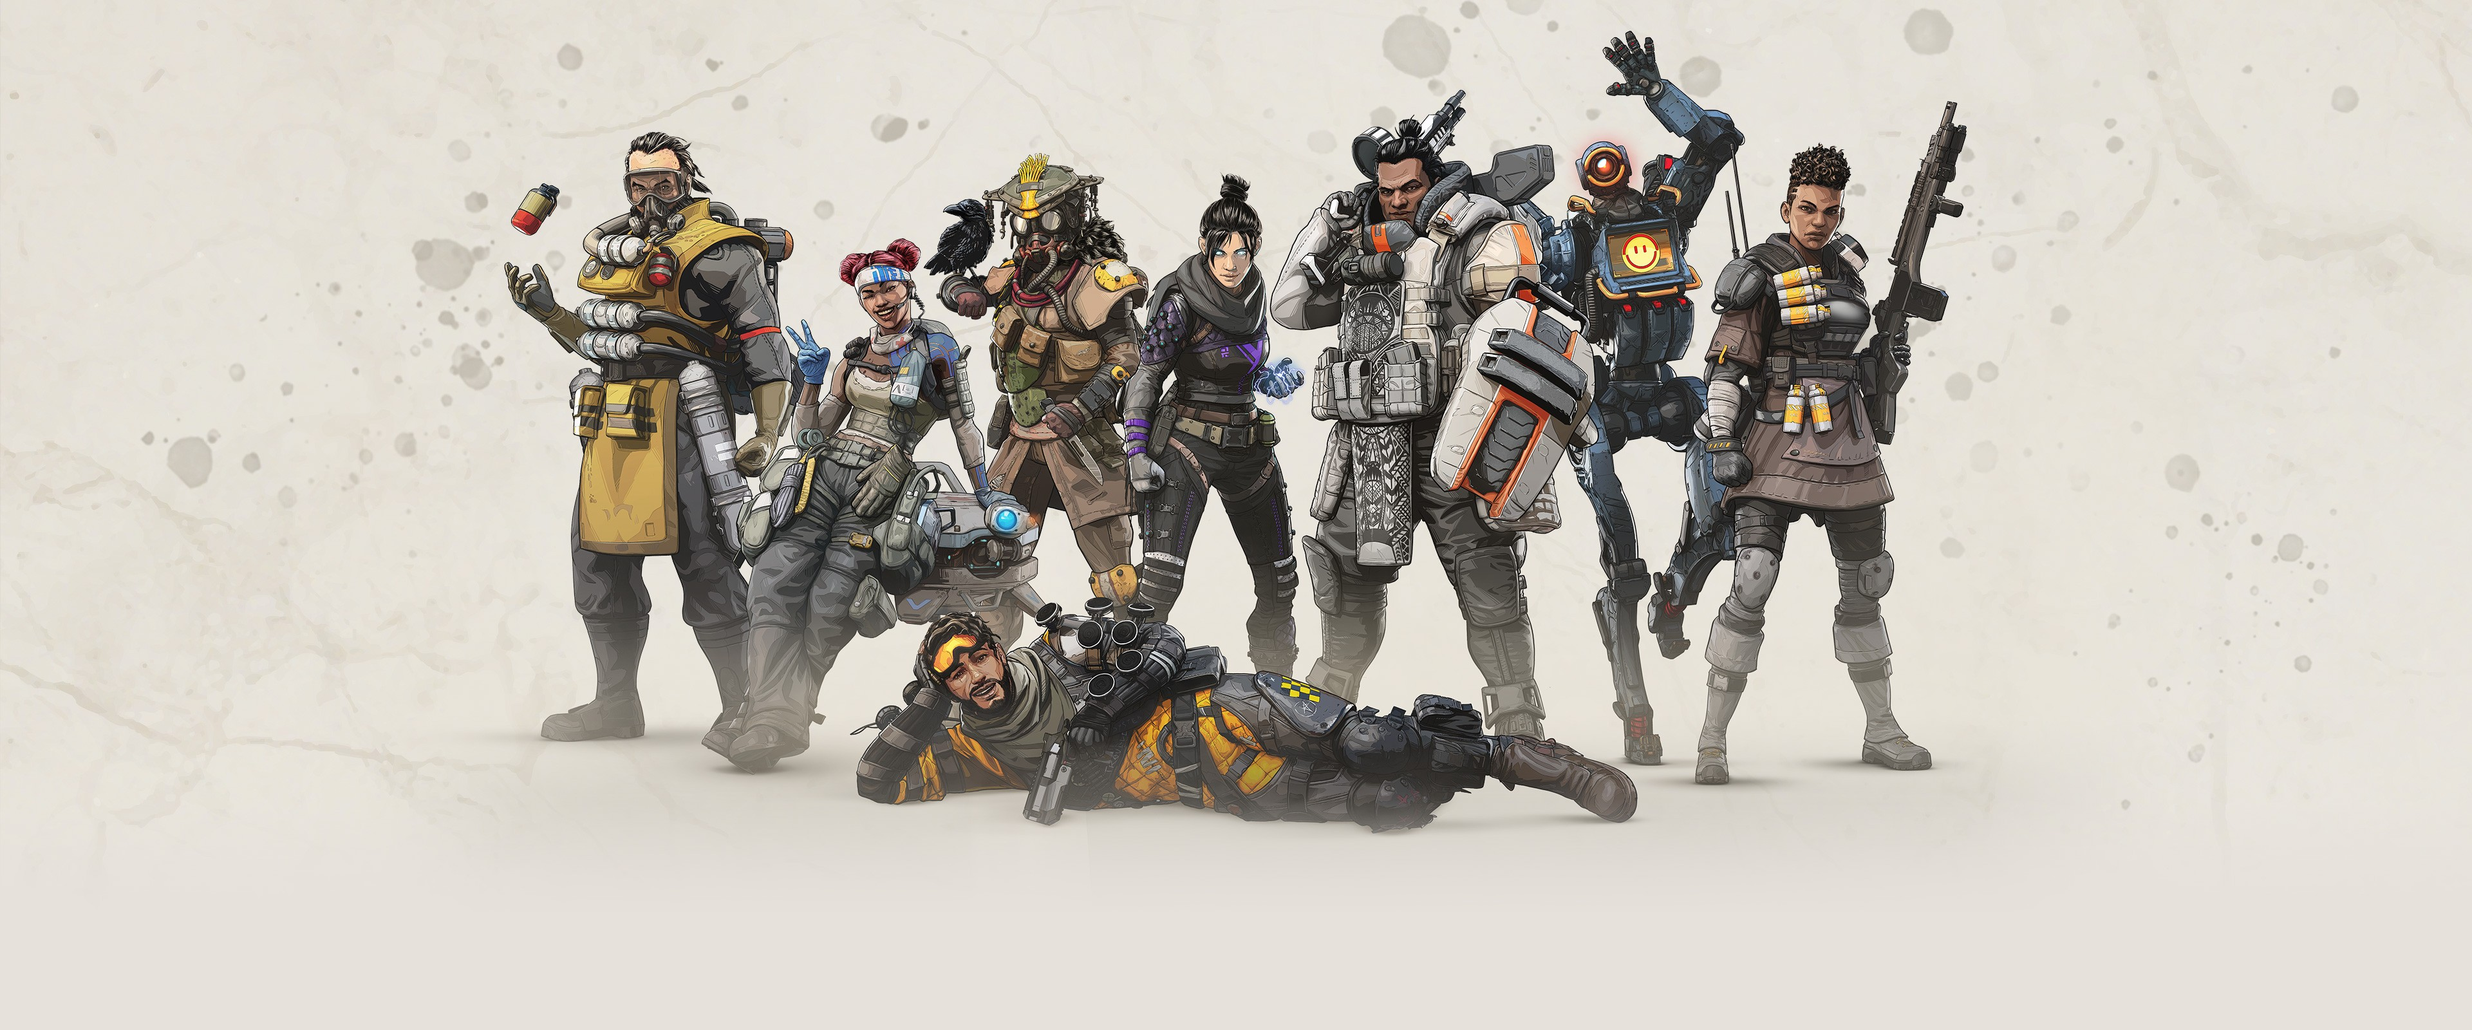
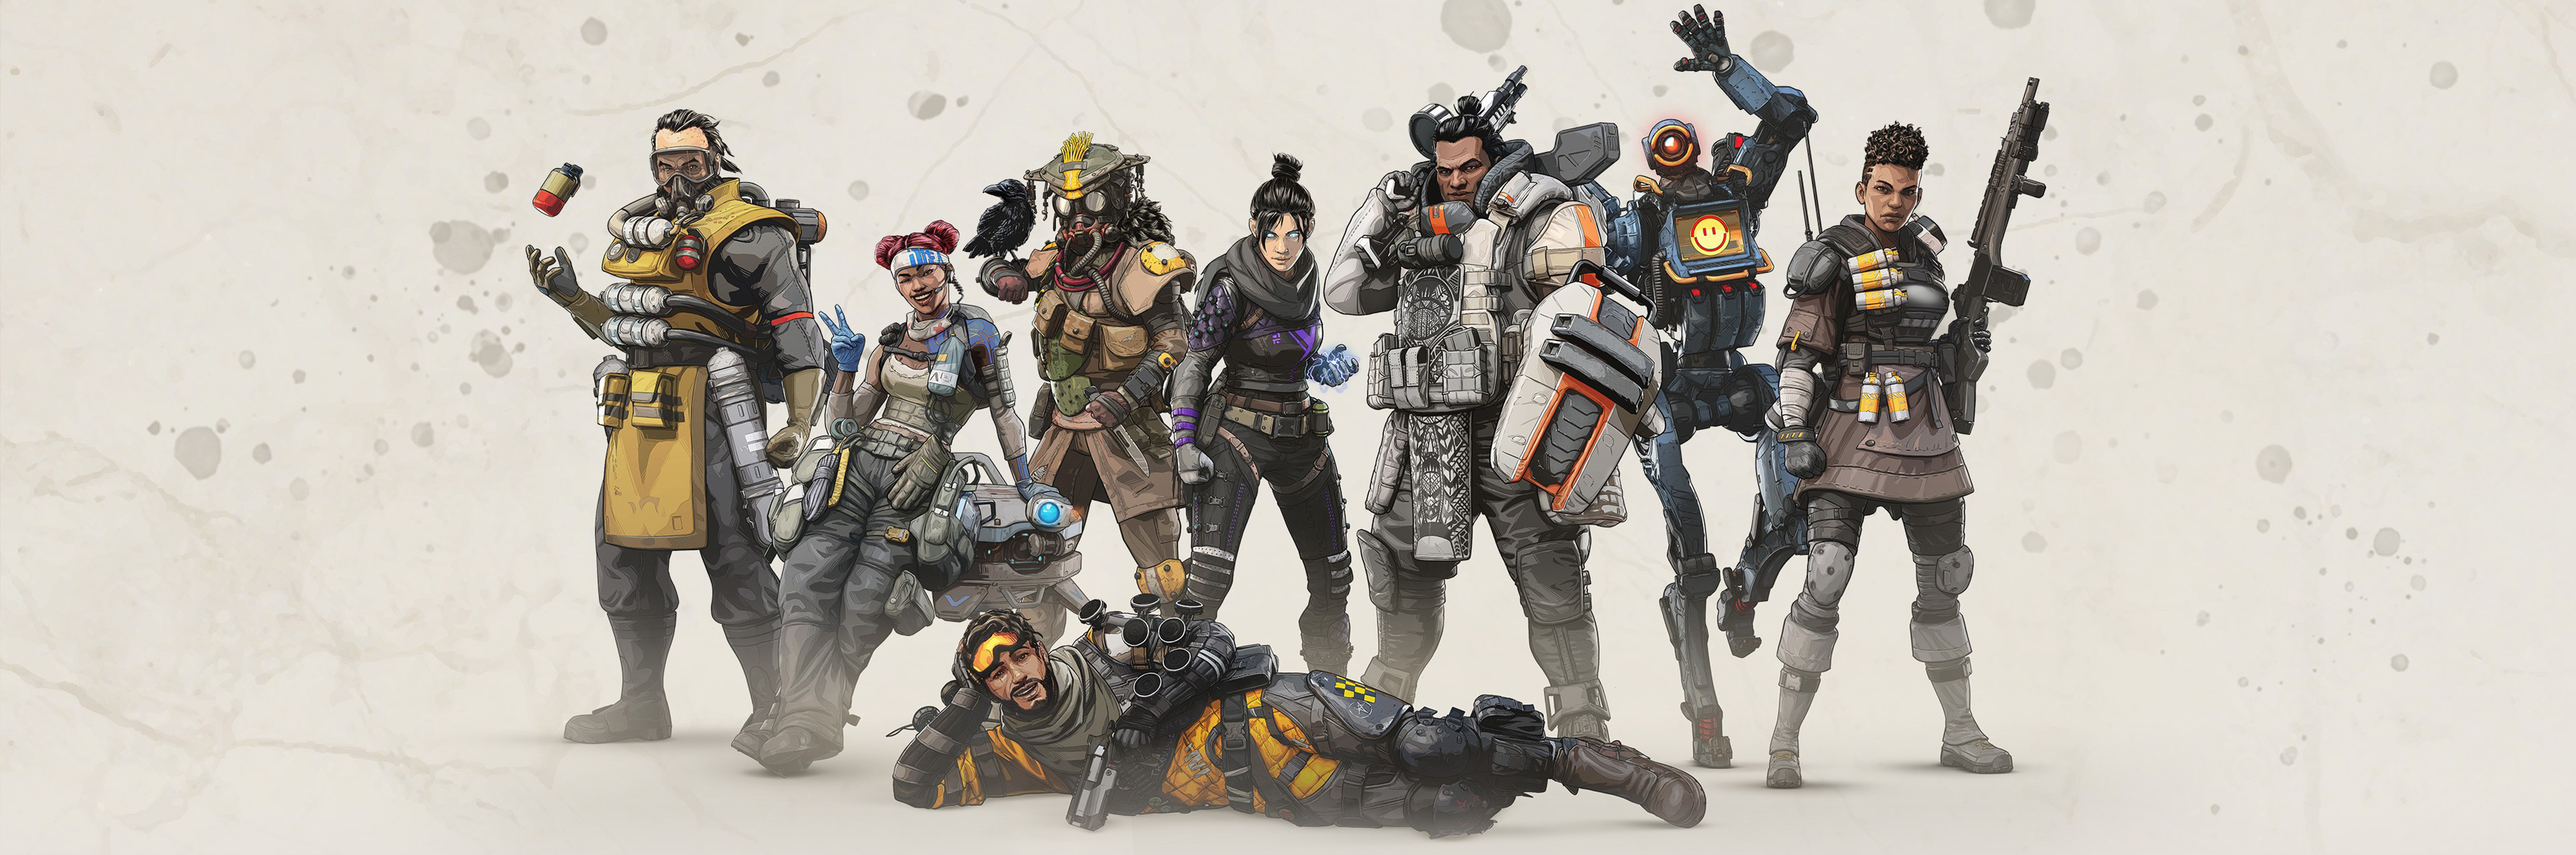
Add resized hero image

diff --git a/assets/css/style.css b/assets/css/style.css
@@ -37,7 +37,7 @@ body {
 
 #header-image {
     height: 100%;
-    width: 100%;
+    width: auto;
     /* image is not completely viewable (change image at some point) */ 
     /* image was found by a google image search: https://data2.origin.com/asset/content/dam/originx/web/app/games/apex/apex/F2P/merch/Apex_Legends_premier_GDP_v1.jpg/1f9850e2-3c07-476b-ad34-2bcd41874dab/original.jpg */
     background: url('../images/apex-banner-characters.jpg') no-repeat center center;
